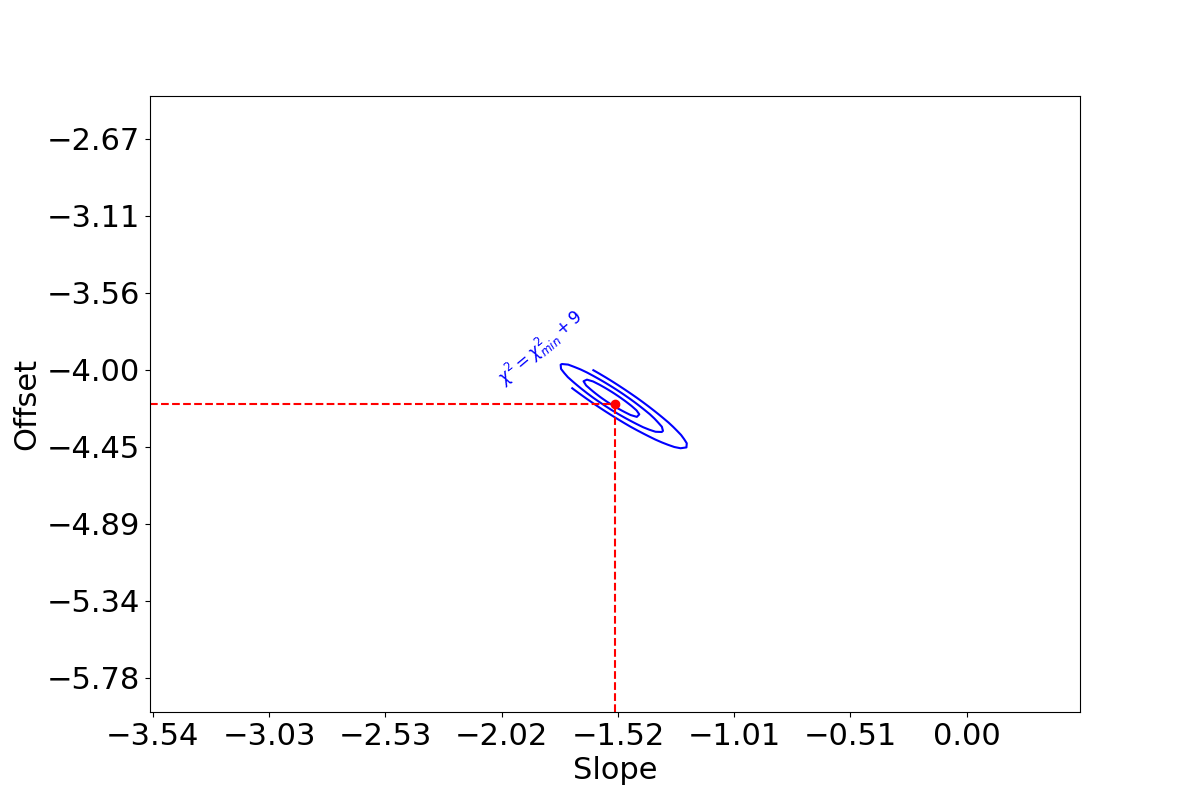
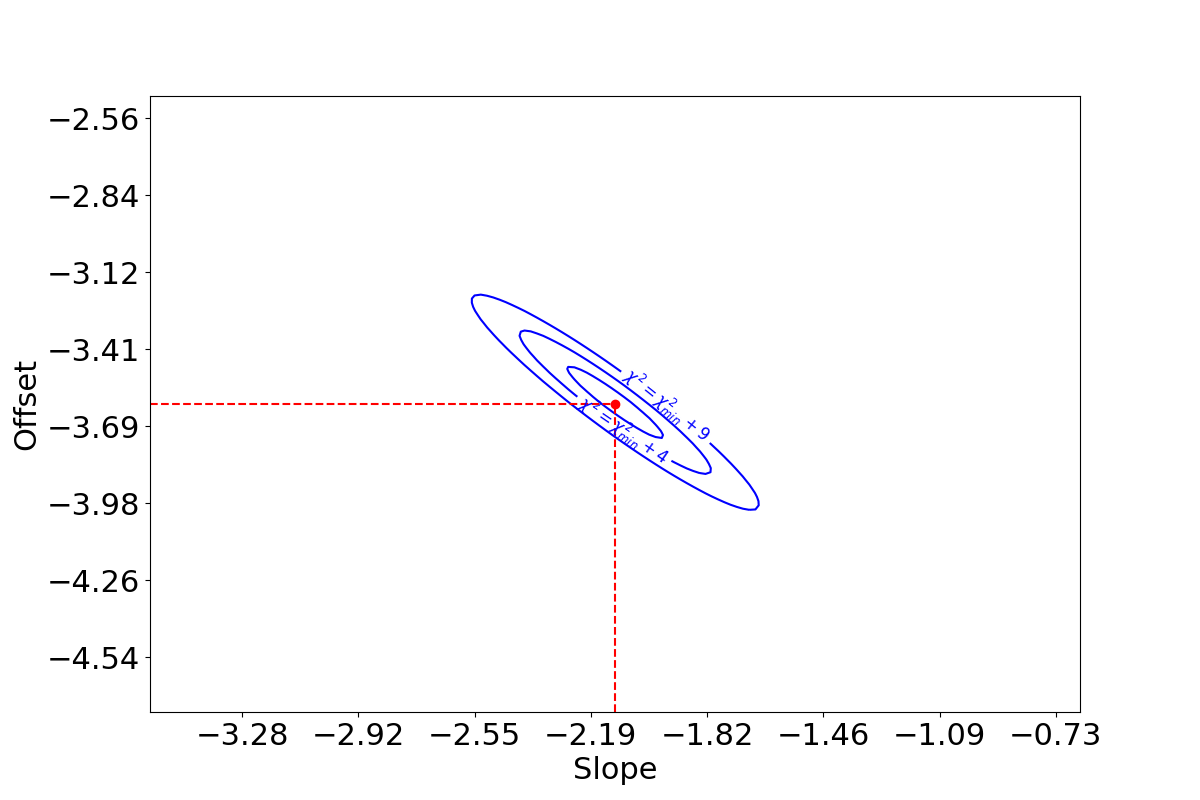
Included B-V correction properly
Worked out the colour excess for the correction to the Abs Mags

diff --git a/p_l_relationship.py b/p_l_relationship.py
@@ -43,14 +43,22 @@ def get_bvcorrection():
         
     bvcorrection = Bmag - Vmag
     
-    """df = pd.read_csv("intrinsic.txt",delimiter=" ",header=None)
-    spectraltypedata = np.empty((50,2),dtype=str)
-    print(spectraltypedata)
-    for i in range(len(df)):
-        rank = np.array([str(df[0][i]),str(df[1][i])])
-        spectraltypedata[i] = rank
+    df = pd.read_csv("intrinsic.txt",delimiter=" ")
+    spectraltypedata = df[["Type","B-V"]].to_numpy()
     
-    print(spectraltypedata)"""
+    Simbad.add_votable_fields("sp_type")
+    
+    for j in range(len(objs)):
+        
+        obj = objs[j]
+        
+        result = Simbad.query_object(obj)
+        
+        for i in range(len(spectraltypedata)):
+            
+            if spectraltypedata[i][0] == result['sp_type'][0]:
+                
+                bvcorrection[j] = bvcorrection[j] - spectraltypedata[i][1]
     
     bverror = np.sqrt(Verr**2 + Berr**2)
     
@@ -59,7 +67,7 @@ def get_bvcorrection():
 def get_parallaxes():
     
     objs=next(os.walk('.'))[1]
-    objs = objs[1:-1]
+    objs = objs[2:-1]
     
     gaiadr3_ids = []
     
@@ -172,7 +180,7 @@ def plot_calc(mags, mags_errs, periods, periods_errs, dist_pc, dist_pc_errs, bvc
     
     print(bvcorrection)
     
-    abs_mags = (mags - 0.8 * bvcorrection) - 5*np.log10(dist_pc) + 5
+    abs_mags = (mags - 3.1 * bvcorrection) - 5*np.log10(dist_pc) + 5
     
     abs_mags_errs = np.sqrt(((mags_errs**2 + (3.1 * bverror)**2)) + (5*(dist_pc_errs/(np.log(10)*dist_pc)))**2)
     
@@ -231,7 +239,7 @@ def plot_calc(mags, mags_errs, periods, periods_errs, dist_pc, dist_pc_errs, bvc
     
     return objs, periods, abs_mags, abs_mags_errs, log_periods, log_periods_errs, diff_inerrs, outlier
     
-def plot_calc_rm(mags, mags_errs, periods, periods_errs, dist_pc, dist_pc_errs, bvcorrection):
+def plot_calc_rm(mags, mags_errs, periods, periods_errs, dist_pc, dist_pc_errs, bvcorrection, bverror):
     
     objs=next(os.walk('.'))[1]
     objs = np.array(objs[2:-1])
@@ -240,7 +248,7 @@ def plot_calc_rm(mags, mags_errs, periods, periods_errs, dist_pc, dist_pc_errs, 
     
     abs_mags = (mags - 3.1* bvcorrection) - 5*np.log10(dist_pc) + 5
     
-    abs_mags_errs = np.sqrt(mags_errs**2 + (5*(dist_pc_errs/(np.log(10)*dist_pc)))**2)
+    abs_mags_errs = np.sqrt(((mags_errs**2 + (3.1 * bverror)**2)) + (5*(dist_pc_errs/(np.log(10)*dist_pc)))**2)
     
     sort_index = np.argsort(periods)
     
@@ -733,9 +741,9 @@ def pl_gen_sans_outliers():
 
     #dist_pc, dist_pc_errs = get_parallaxes()
 
-    dist_pc, dist_pc_errs, bvcorrection = read_parallaxes()
+    dist_pc, dist_pc_errs, bvcorrection, bverror = read_parallaxes()
 
-    objs, periods, abs_mags, abs_mags_errs, log_periods, log_periods_errs, diff_inerrs, outlier = plot_calc_rm(mags, mags_errs, periods, periods_errs, dist_pc, dist_pc_errs, bvcorrection)
+    objs, periods, abs_mags, abs_mags_errs, log_periods, log_periods_errs, diff_inerrs, outlier = plot_calc_rm(mags, mags_errs, periods, periods_errs, dist_pc, dist_pc_errs, bvcorrection, bverror)
 
     slope_array, offset_array = jackknifing(abs_mags, abs_mags_errs, periods)
 
@@ -747,4 +755,4 @@ def pl_gen_sans_outliers():
 
 
 pl_gen()
-#pl_gen_sans_outliers()
+pl_gen_sans_outliers()

diff --git a/astrolabs.py b/astrolabs.py
@@ -19,7 +19,7 @@ arrays=df.to_numpy()
 
 objs=next(os.walk('.'))[1]
 
-objs=objs[3:-1]
+objs=objs[2:-1]
 
 periods=[]
 
@@ -30,7 +30,7 @@ for j in objs:
 
     
 
-#plot_fourier_grid(objs,periods,True)
+plot_fourier_grid(objs,periods,True)
 
 obj=input('Select Cepheid: ')
 
